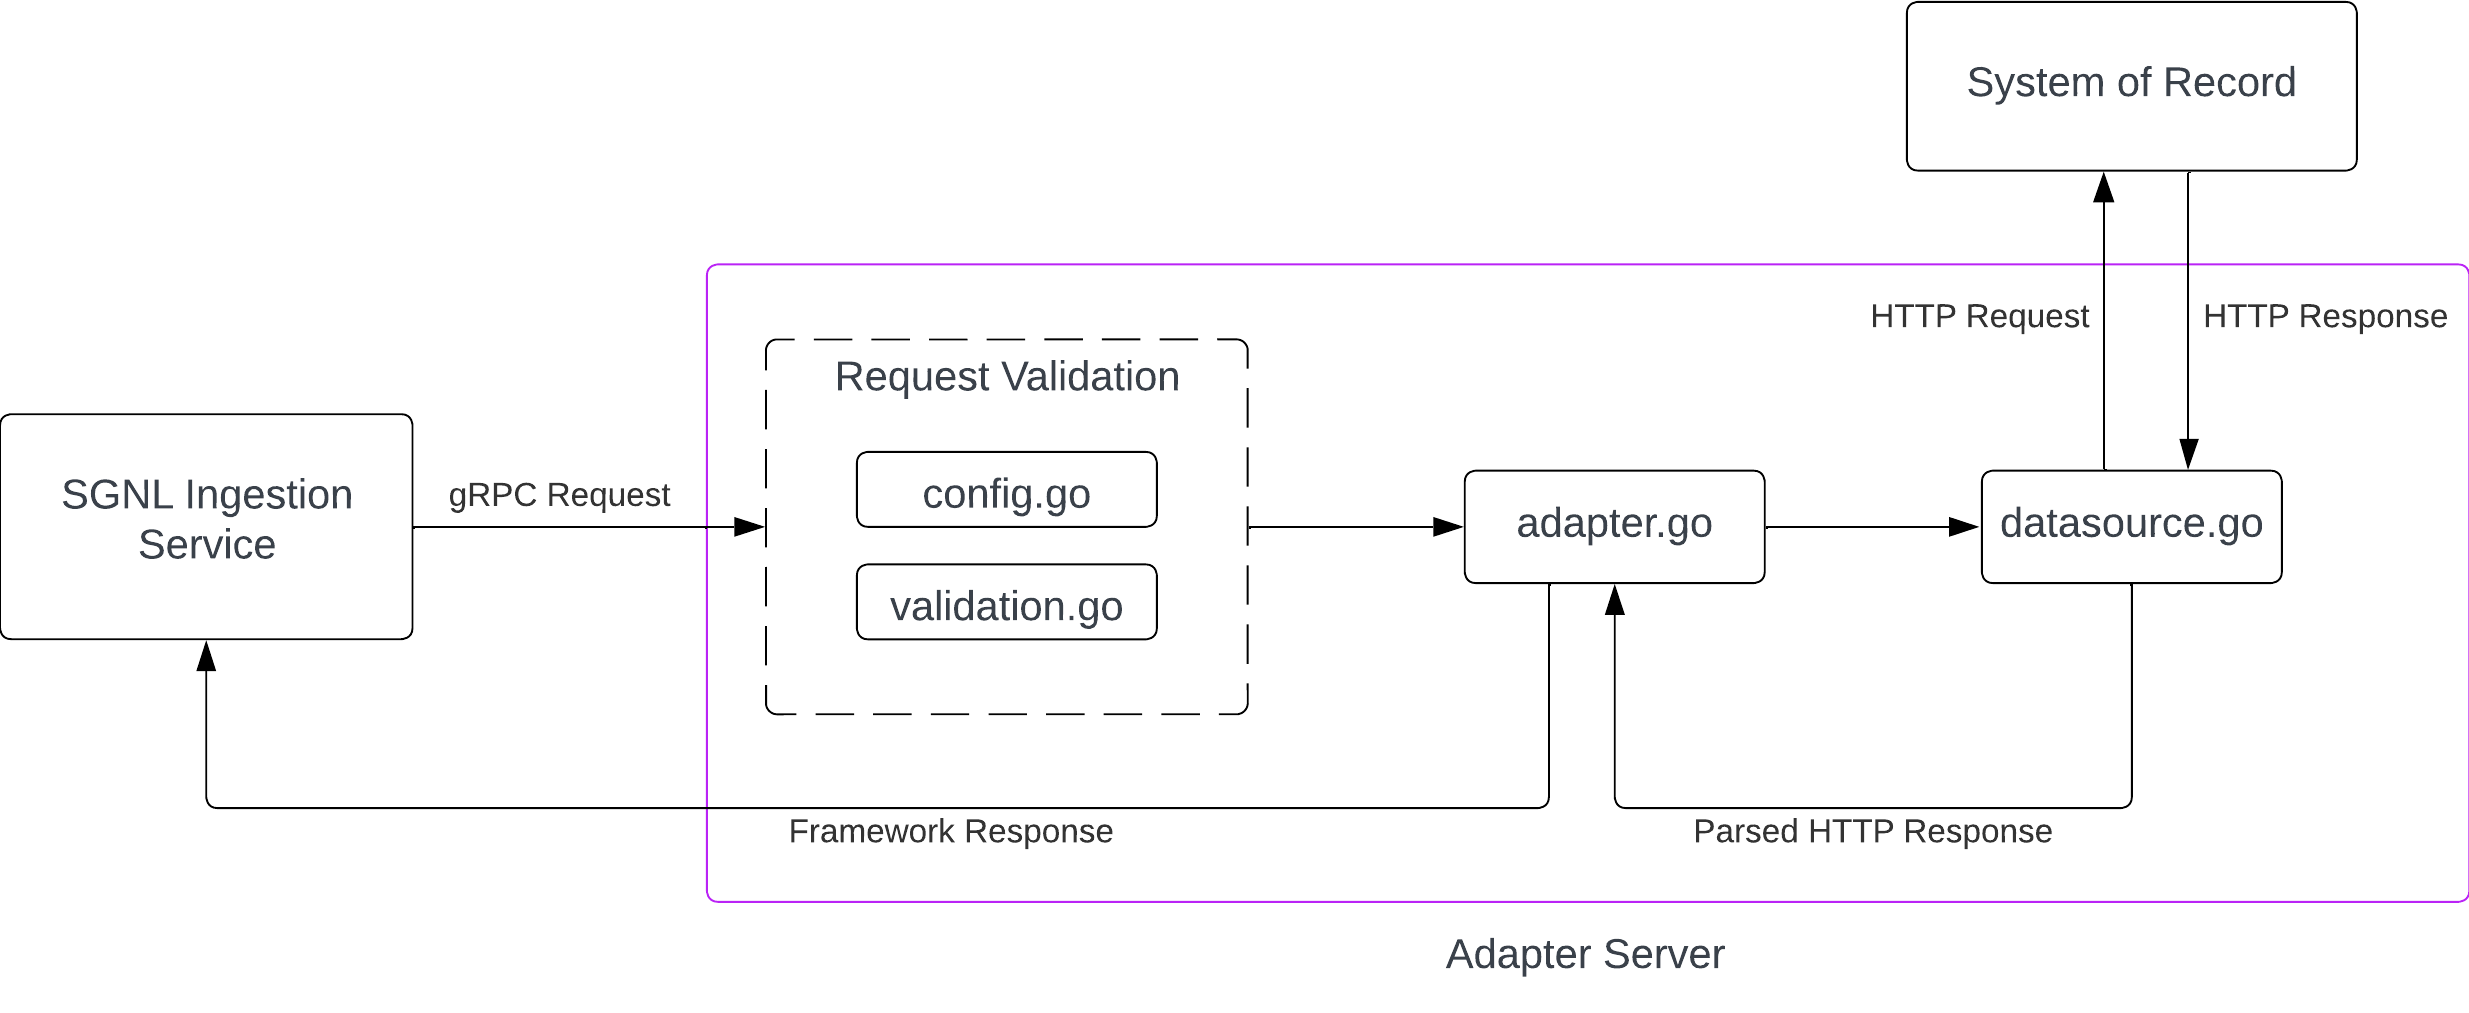
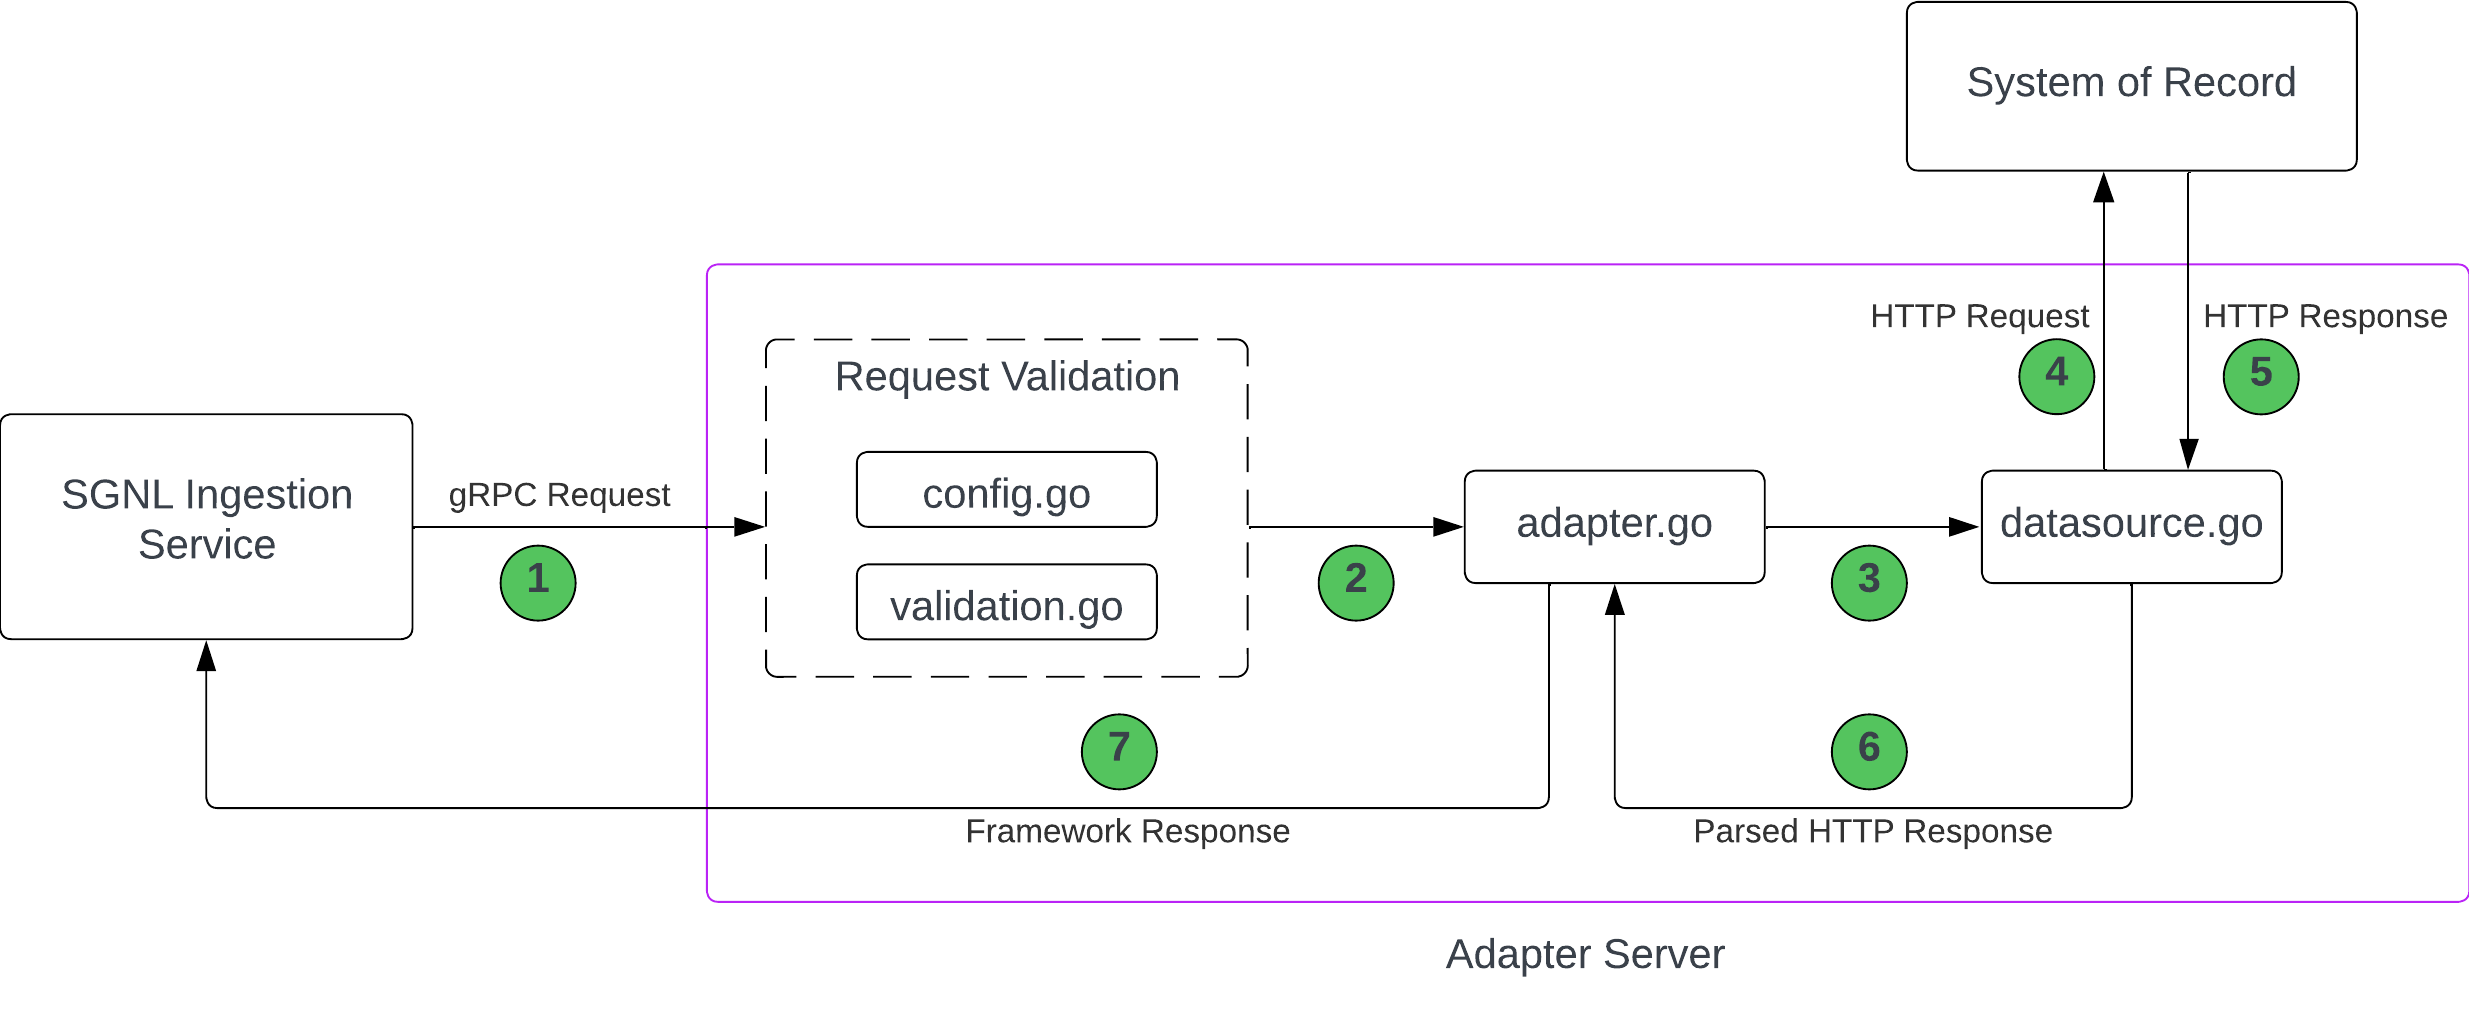
Test code rendering

diff --git a/README.md b/README.md
@@ -142,6 +142,15 @@ A simplified flow chart of an incoming gRPC request to the adapter server is sho
 
 ![Adapter Flow](docs/assets/adapter_flow.png)
 
+1. A gRPC request which follows the [adapter Protobuf schema](https://github.com/SGNL-ai/adapter-framework/blob/f2cafb0d963b54c350350967906ce59776d720a1/api/adapter/v1/adapter.proto) is sent by the ingestion service to the adapter server. For testing, you can use Postman to send a gRPC request instead.
+2. The gRPC request is validated by `config.go` and `validation.go`.
+
+`config.go`
+
+Here, you can specify additional configuration options for the adapter. For example, the API version to use, etc.
+
+https://github.com/SGNL-ai/adapter-template/blob/6fc51e38bb5cb48deecbecbaedfa44c202661709/pkg/adapter/config.go#L22-L45.
+
 ### 4.
 
 ### 5. Local Testing
